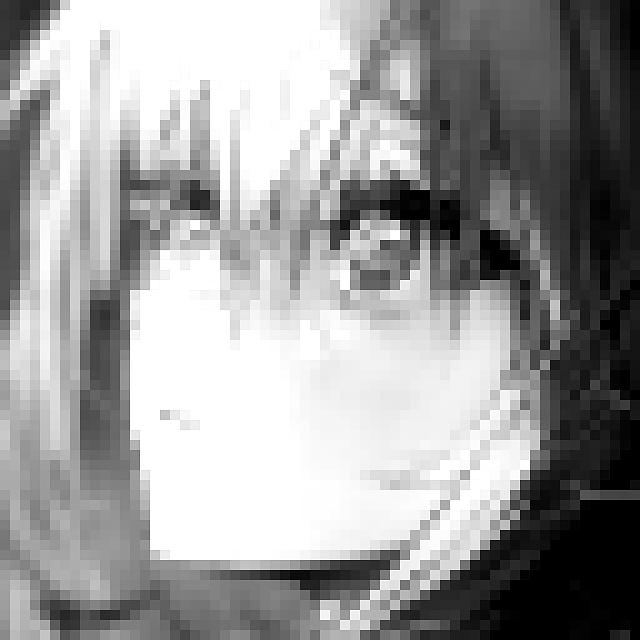
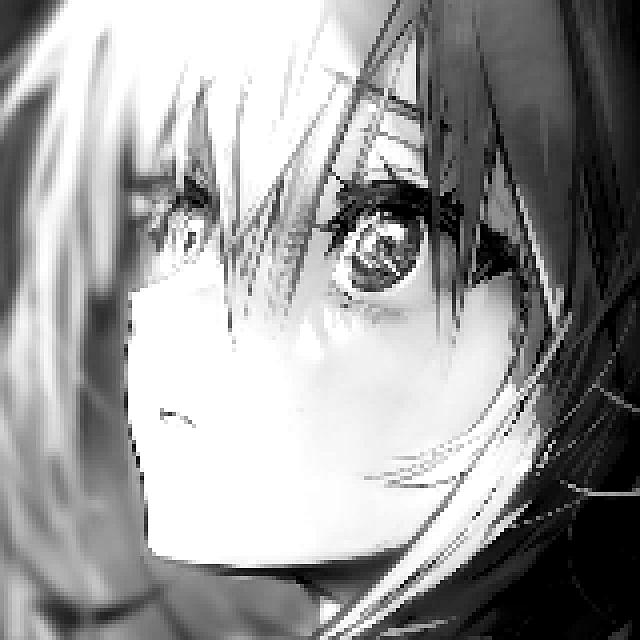
2025.05.18 Upgrade

diff --git a/Pixel-image/Pixel.py b/Pixel-image/Pixel.py
@@ -1,4 +1,4 @@
-from PIL import Image, ImageEnhance
+from PIL import Image, ImageEnhance, ImagePalette
 import os
 import numpy as np
 
@@ -14,6 +14,57 @@ class PixelArtConverter:
         self.input_path = input_path
         self.pixel_size = pixel_size
         self.image = Image.open(input_path)
+    
+    def apply_dithering(self, image):
+        """
+        应用抖动效果，使图像更有复古像素画的感觉
+        
+        Args:
+            image (Image): 输入图片
+        
+        Returns:
+            Image: 应用抖动效果后的图片
+        """
+        if image.mode != "RGB":
+            image = image.convert("RGB")
+        
+        # 转换为带有抖动效果的图像
+        palette_image = image.convert('P', palette=Image.ADAPTIVE, colors=32, dither=Image.FLOYDSTEINBERG)
+        return palette_image.convert('RGB')
+
+    def apply_pixel_art_effect(self, image):
+        """
+        应用像素画效果增强
+        
+        Args:
+            image (Image): 输入图片
+        
+        Returns:
+            Image: 增强后的图片
+        """
+        # 增加局部对比度
+        enhancer = ImageEnhance.Contrast(image)
+        image = enhancer.enhance(1.5)
+        
+        # 增加锐度以突出边缘
+        enhancer = ImageEnhance.Sharpness(image)
+        image = enhancer.enhance(2.0)
+        
+        return image
+
+    def reduce_colors(self, image, num_colors=16):
+        """
+        减少颜色数量，并保持像素画风格的鲜明色彩
+        
+        Args:
+            image (Image): 输入图片
+            num_colors (int): 期望的颜色数量
+        
+        Returns:
+            Image: 处理后的图片
+        """
+        # 使用中位切割法进行颜色量化
+        return image.quantize(colors=num_colors, method=2).convert('RGB')
     
     def quantize_colors(self, image, num_colors=8):
         """
@@ -56,7 +107,7 @@ class PixelArtConverter:
         enhancer = ImageEnhance.Contrast(image)
         return enhancer.enhance(factor)
 
-    def convert_to_pixel_art(self, color_mode="color", num_colors=8, edge_enhance=1.5, contrast=1.3):
+    def convert_to_pixel_art(self, color_mode="color", num_colors=16, edge_enhance=2.0, contrast=1.5):
         """
         将图片转换为像素风格
         
@@ -73,43 +124,27 @@ class PixelArtConverter:
         width, height = self.image.size
         new_width = width - (width % self.pixel_size)
         new_height = height - (height % self.pixel_size)
-        image = self.image.resize((new_width, new_height))
         
-        # 如果是黑白模式，先转换为灰度图
+        # 首先将图片缩小，这样在放大时会产生更明显的像素效果
+        small_size = (new_width // self.pixel_size, new_height // self.pixel_size)
+        image = self.image.resize(small_size, Image.NEAREST)
+        
+        # 转换颜色模式
         if color_mode == "bw":
             image = image.convert("L")
-            pixel_image = Image.new("L", image.size)
         else:
-            # 对彩色图像进行颜色量化
-            image = self.quantize_colors(image, num_colors)
-            pixel_image = Image.new(image.mode, image.size)
+            # 减少颜色数量
+            image = self.reduce_colors(image, num_colors)
+            # 应用抖动效果
+            image = self.apply_dithering(image)
         
-        # 遍历图片，按像素块处理
-        for i in range(0, new_width, self.pixel_size):
-            for j in range(0, new_height, self.pixel_size):
-                # 获取像素块的平均颜色
-                box = (i, j, i + self.pixel_size, j + self.pixel_size)
-                region = image.crop(box)
-                if color_mode == "bw":
-                    color = int(sum(region.getdata()) / (self.pixel_size * self.pixel_size))
-                else:
-                    r = int(sum(p[0] for p in region.getdata()) / (self.pixel_size * self.pixel_size))
-                    g = int(sum(p[1] for p in region.getdata()) / (self.pixel_size * self.pixel_size))
-                    b = int(sum(p[2] for p in region.getdata()) / (self.pixel_size * self.pixel_size))
-                    color = (r, g, b)
-                
-                # 填充像素块
-                for x in range(i, i + self.pixel_size):
-                    for y in range(j, j + self.pixel_size):
-                        pixel_image.putpixel((x, y), color)
+        # 放大到原始尺寸，使用最近邻插值保持像素的锐利度
+        image = image.resize((new_width, new_height), Image.NEAREST)
         
-        # 应用边缘增强和对比度调整
-        if edge_enhance > 1.0:
-            pixel_image = self.enhance_edges(pixel_image, edge_enhance)
-        if contrast != 1.0:
-            pixel_image = self.adjust_contrast(pixel_image, contrast)
+        # 应用像素画效果增强
+        image = self.apply_pixel_art_effect(image)
         
-        return pixel_image
+        return image
     
     def save(self, output_path, converted_image):
         """
@@ -130,25 +165,27 @@ def main():
     if not os.path.exists(output_dir):
         os.makedirs(output_dir)
     
-    # 创建转换器实例
-    converter = PixelArtConverter(input_path, pixel_size=10)
+    # 创建转换器实例 - 使用较小的像素大小以获得更好的效果
+    converter = PixelArtConverter(input_path, pixel_size=4)
     
     # 生成增强的彩色像素风格
     color_image = converter.convert_to_pixel_art(
         color_mode="color",
-        num_colors=8,     # 减少颜色数量，使效果更明显
-        edge_enhance=1.5, # 增强边缘
-        contrast=1.3      # 增加对比度
+        num_colors=16,    # 使用较少的颜色以获得更明显的像素画效果
+        edge_enhance=2.0, # 增强边缘效果
+        contrast=1.5      # 适度增加对比度
     )
     converter.save(os.path.join(output_dir, "pixel_color.jpg"), color_image)
     
     # 生成增强的黑白像素风格
     bw_image = converter.convert_to_pixel_art(
         color_mode="bw",
-        edge_enhance=1.8, # 黑白模式下可以使用更强的边缘增强
-        contrast=1.5      # 黑白模式下增加更多对比度
+        edge_enhance=2.0,
+        contrast=1.8
     )
     converter.save(os.path.join(output_dir, "pixel_bw.jpg"), bw_image)
+    
+    print("Have Done!")
 
 if __name__ == "__main__":
     main()
